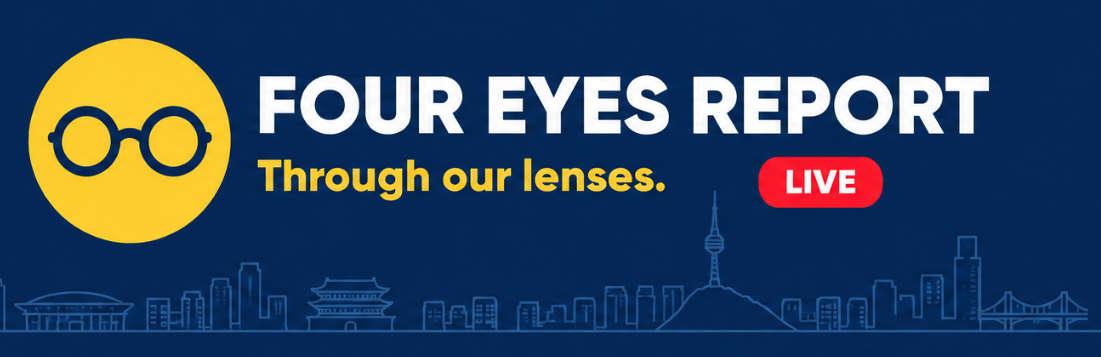
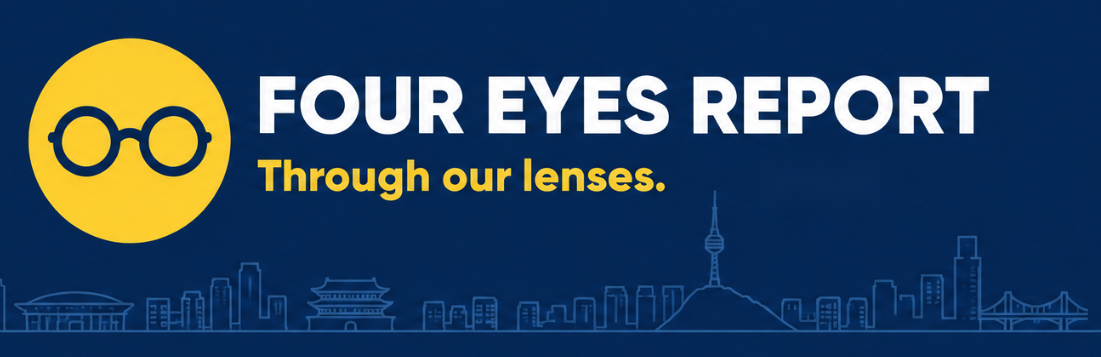
Drop LIVE and the clock: episode tag + category instead
Nothing is broadcast live, so the top-left tag is now EP.n (brand yellow)
and the fake KST clock is gone. The Shorts banner strip and the title
card have the LIVE pill painted out.

Claude-Session: https://claude.ai/code/session_015HhnBDfc26AMjK2gjkATRJ

Changed region(s): [[0.6794, 0.4314, 0.8029, 0.5854]]

diff --git a/korea-decoded/prototypes/newsrig.py b/korea-decoded/prototypes/newsrig.py
@@ -32,6 +32,7 @@ BRAND_NAVY = (4, 39, 87)  # background of the minimal banner / promo strip
 LOGO_PATH = os.environ.get("FER_LOGO", os.path.join(os.path.dirname(os.path.abspath(__file__)), "fer_logo_mark.png"))
 HEADLINE = "Korean convenience stores are NOT boring"
 SCREEN_LABEL = "CONVENIENCE STORES"
+EPISODE = 1
 HOOK = "Korea's convenience stores\nare on another level"
 
 
@@ -51,6 +52,16 @@ def shorts_promo(canvas, draw):
               fill=(190, 200, 225), anchor="mm")
     draw.rounded_rectangle((SW / 2 - 200, 1838, SW / 2 + 200, 1898), 30, fill=RED)
     draw.text((SW / 2, 1868), "SUBSCRIBE", font=font(34), fill=WHITE, anchor="mm")
+
+
+def episode_tag(draw, x, y, episode, h=50):
+    """Top-left broadcast tag, e.g. "EP.12" (brand yellow; we never claim to be live). Returns right edge."""
+    f = font(30)
+    text = f"EP.{episode}"
+    w = draw.textlength(text, font=f) + 40
+    draw.rounded_rectangle((x, y, x + w, y + h), 12, fill=YELLOW)
+    draw.text((x + w / 2, y + h / 2), text, font=f, fill=NAVY, anchor="mm")
+    return x + w
 
 def logo_mark(canvas, cx, cy, size):
     """Pastes the channel mark centered at (cx, cy); code-drawn fallback if the file is missing."""
@@ -293,10 +304,7 @@ def desk_layer():
 def overlay_layer():
     img = Image.new("RGBA", (W, H), (0, 0, 0, 0))
     d = ImageDraw.Draw(img)
-    d.rounded_rectangle((270, 50, 420, 100), 12, fill=RED)
-    d.ellipse((288, 66, 306, 84), fill=WHITE)
-    d.text((316, 75), "LIVE", font=font(30), fill=WHITE, anchor="lm")
-    d.text((1650, 75), "12:34 KST", font=font(30), fill=WHITE, anchor="rm")
+    episode_tag(d, 270, 50, EPISODE)
     d.rectangle((240, 930, 1680, 1030), fill=(255, 255, 255))
     d.rectangle((240, 930, 520, 1030), fill=YELLOW)
     d.text((380, 980), "BREAKING", font=font(40), fill=BLACK, anchor="mm")

diff --git a/korea-decoded/prototypes/dialog.py b/korea-decoded/prototypes/dialog.py
@@ -158,20 +158,18 @@ def main():
         d.text((p.x, DESK_Y + 55), p.label, font=f, fill=nr.BLACK, anchor="mm")
     over = Image.new("RGBA", (W, H), (0, 0, 0, 0))
     o = ImageDraw.Draw(over)
-    o.rounded_rectangle((270, 50, 420, 100), 12, fill=nr.RED)
-    o.ellipse((288, 66, 306, 84), fill=nr.WHITE)
-    o.text((316, 75), "LIVE", font=nr.font(30), fill=nr.WHITE, anchor="lm")
+    tag_right = nr.episode_tag(o, 270, 50, scene.get("episode", 1))
     o.rectangle((240, 930, 1680, 1030), fill=nr.WHITE)
     category = scene.get("category", "hidden_korea")
     cat_color = CATEGORIES[category][1]
-    category_badge(o, 436, 50, category)  # next to LIVE, same height
+    category_badge(o, tag_right + 16, 50, category)  # next to the episode tag, same height
     o.rectangle((240, 930, 520, 1030), fill=cat_color)
     o.text((380, 980), "PANEL", font=nr.font(40), fill=nr.WHITE, anchor="mm")
     o.text((550, 980), scene["headline"], font=nr.font(38), fill=nr.BLACK, anchor="lm")
 
     short_static = Image.new("RGB", (SW, SH), nr.BRAND_NAVY)
     sd = ImageDraw.Draw(short_static)
-    # the category already shows inside the video (next to LIVE), so the top margin is just the hook
+    # the category already shows inside the video (next to the episode tag), so the top margin is just the hook
     sd.multiline_text((SW / 2, 300), scene["hook"], font=nr.font(72), fill=nr.WHITE, anchor="mm",
                       align="center", spacing=18)
     nr.shorts_promo(short_static, sd)

diff --git a/korea-decoded/docs/show_bible.md b/korea-decoded/docs/show_bible.md
@@ -9,7 +9,9 @@
 - 프로필 사진: 앵커(A6) 얼굴
 - 배너(확정): 단체샷. 업로드용 2560×1440 파일: [다운로드](https://d2ol7oe51mr4n9.cloudfront.net/user_3EqGMSR4UWAmjj632i5YewaH0hU/d9fec721-91b1-43b5-bf7a-151aa04349be.png) (원본 job `7aa944cd-4ae7-469c-82bf-7f847001db55`)
 - 영상 로고: **미니멀 배너의 노란 원 안경 마크를 잘라낸 것** (배경 투명 PNG): [fer_logo_mark.png](https://d2ol7oe51mr4n9.cloudfront.net/user_3EqGMSR4UWAmjj632i5YewaH0hU/ce946036-9821-419d-aae2-d107a3aef417.png). 렌더러는 `prototypes/fer_logo_mark.png` 또는 환경변수 `FER_LOGO`의 파일을 붙이고, 없으면 같은 모양을 코드로 그림. 유튜브 브랜딩 워터마크에도 이 파일을 사용
-- 인트로·엔딩 카드용 미니멀 배너 (1920×1080): [fer_title_card_1920x1080.png](https://d2ol7oe51mr4n9.cloudfront.net/user_3EqGMSR4UWAmjj632i5YewaH0hU/0f81c53f-8be5-4e35-8919-9e34acffd12e.png)
+- 인트로·엔딩 카드용 미니멀 배너 (1920×1080): [fer_title_card_1920x1080.png](https://d2ol7oe51mr4n9.cloudfront.net/user_3EqGMSR4UWAmjj632i5YewaH0hU/866e97c9-3565-4b49-8ecf-279d89e6710b.png)
+- 쇼츠 하단 배너: `prototypes/fer_promo_strip.png` (미니멀 배너에서 로고·이름·태그라인·스카이라인 부분)
+- **"LIVE" 표시는 쓰지 않는다** (라이브가 아닌데 라이브처럼 보이면 오해를 부르는 메타데이터 문제). 영상 왼쪽 위는 에피소드 태그 `EP.n` + 카테고리 배지. 시계 없음. 제목·썸네일에도 LIVE 금지
 - 미니멀 배너 원본(참고): job `53397e26-5652-4dee-b59c-8eb542b9f7c4`
 - 애니메이션 방식: `claude/2d-image-animation-automation-xzu38n` 브랜치의 연구 참고 (Plan A: 몸 고정 + 머리 독립 레이어, 입 모양 교체, 캐릭터 디자인 10원칙)
 
